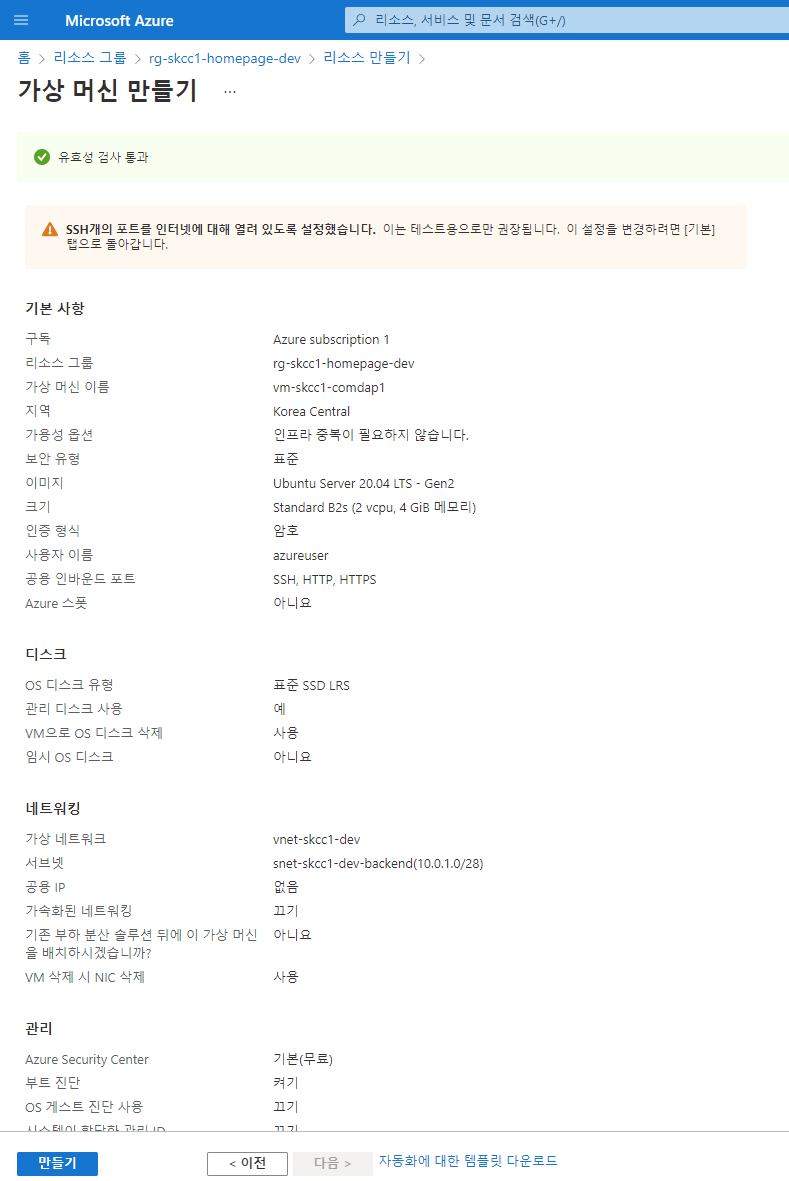
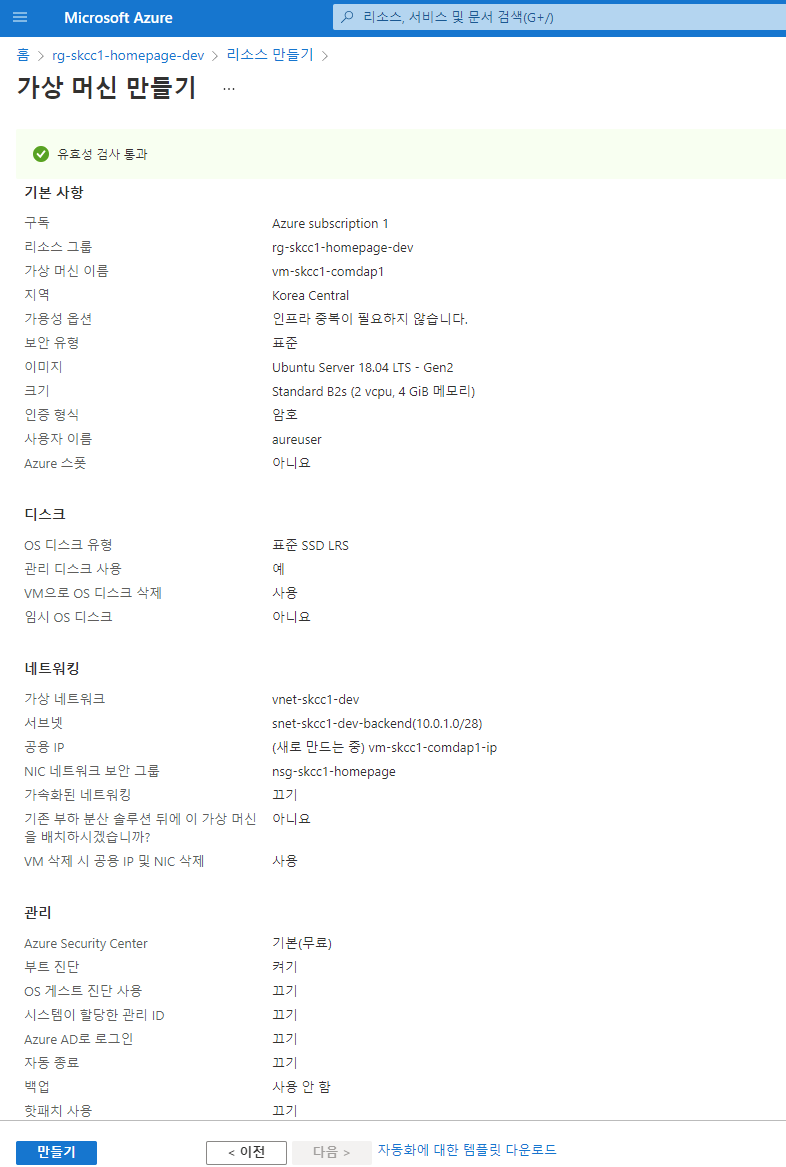
2022-02-07

diff --git a/1.IaaS/Tomcat.md b/1.IaaS/Tomcat.md
@@ -12,13 +12,13 @@
 sudo apt update
 
 # OpenJDK 설치
-sudo apt install default-jdk
+sudo apt install default-jdk -y
 
 # Tomcat 사용자 생성
 sudo useradd -r -m -U -d /opt/tomcat -s /bin/false tomcat
 
 # Tomcat 설치
-sudo apt install tomcat9
+sudo apt install tomcat9 -y
 
 # tomcat 시작
 sudo service tomcat9 start
@@ -26,6 +26,8 @@ sudo service tomcat9 start
 # tomcat 상태 보기
 sudo service tomcat9 status
 ```
+### 설치된 초기 화면
+![vm-skcc1-comdap1-tomcat9-초기화면.png](./img/vm-skcc1-comdap1-tomcat9-초기화면.png)  
 
 ## 방화벽
 ### 8080 허용 설정
@@ -41,52 +43,23 @@ sudo ufw disable
 ## 도구 설치
 ### netstat 등 도구 설치
 ```
-apt-get install net-tools
+sudo apt install net-tools
 ```
 
 ## tomcat webapps 디렉토리에 war 를 배포
+### WAR 파일 복사
 ```
 azureuser@vm-skcc1-comdap1:~$ cd /var/lib/tomcat9/webapps
 azureuser@vm-skcc1-comdap1:/var/lib/tomcat9/webapps$ sudo cp ~/SpringBootSample-0.0.1-SNAPSHOT.war .
 azureuser@vm-skcc1-comdap1:/var/lib/tomcat9/webapps$ sudo service tomcat9 restart
 
 ```
-### war 배포한 후 초기 화면
-![tomcat9-webapps.png](./img/tomcat9-webapps.png)
-
-## tomcat 기동
-![tomcat-9.png](./img/tomcat9.png)
-
-## WAR 배포 후 "localhost:8080" 접속 초기 화면
-![tomcat-9-browser.png](./img/tomcat9-browser.png)
-
-## AJP 설정
-
-### Connector port="8080" 주석(안해도 됨)
-```xml
-    <!-- Connector port="8080" protocol="HTTP/1.1"
-               connectionTimeout="20000"
-               redirectPort="8443" / -->
- 
+### WAR 사용 설정 (Spring Boot Application)
+#### server.xml 위치로 이동
+```bash
+cd /etc/tomcat9
+vi server.xml
 ```
-### AJP 설정의 주석 해제
-- address 를 삭제하거나 address를 localhost 로 설정
-- 아래 설정에서는 제거
-- address="localhost"
-- server.xml
-  ```xml
-      <Connector protocol="AJP/1.3"              
-               secretRequired="false"
-               port="8009"               
-               redirectPort="8443" />
-  ```
-### localhost 에 대해서 jvmRoute 옵션 추가
-- apache 의 workers.properties 와 동일명 기술
-- server.xml
-  ```xml
-  <Engine name="Catalina" defaultHost="localhost" jvmRoute="jvm1">
-  ```
-### WAR 배포 설정 (Spring Boot Application)
 - 확장자(.war)를 제외한 부분을 아래와 같이 기술
   ```xml
   <Host name="localhost"  appBase="webapps" unpackWARs="true" autoDeploy="true">
@@ -96,7 +69,7 @@ azureuser@vm-skcc1-comdap1:/var/lib/tomcat9/webapps$ sudo service tomcat9 restar
 ##### http://vm-skcc-comdap1:8080/home.do
 ![vm-skcc1-comdap1-home.do.png](./img/vm-skcc1-comdap1-home.do.png)
 
-### tomcat/conf/server.xml 전문
+### /etc/tomcat9/server.xml 전문
 - server.xml
   ```xml
   <?xml version="1.0" encoding="UTF-8"?>
@@ -125,7 +98,7 @@ azureuser@vm-skcc1-comdap1:/var/lib/tomcat9/webapps$ sudo service tomcat9 restar
     <!-- Security listener. Documentation at /docs/config/listeners.html
     <Listener className="org.apache.catalina.security.SecurityListener" />
     -->
-    <!-- APR library loader. Documentation at /docs/apr.html -->
+    <!--APR library loader. Documentation at /docs/apr.html -->
     <Listener className="org.apache.catalina.core.AprLifecycleListener" SSLEngine="on" />
     <!-- Prevent memory leaks due to use of particular java/javax APIs-->
     <Listener className="org.apache.catalina.core.JreMemoryLeakPreventionListener" />
@@ -177,10 +150,11 @@ azureuser@vm-skcc1-comdap1:/var/lib/tomcat9/webapps$ sudo service tomcat9 restar
                 connectionTimeout="20000"
                 redirectPort="8443" />
       -->
-      <!-- Define an SSL/TLS HTTP/1.1 Connector on port 8443
+      <!-- Define a SSL/TLS HTTP/1.1 Connector on port 8443
           This connector uses the NIO implementation. The default
           SSLImplementation will depend on the presence of the APR/native
-          library and the useOpenSSL attribute of the AprLifecycleListener.
+          library and the useOpenSSL attribute of the
+          AprLifecycleListener.
           Either JSSE or OpenSSL style configuration may be used regardless of
           the SSLImplementation selected. JSSE style configuration is used below.
       -->
@@ -193,7 +167,7 @@ azureuser@vm-skcc1-comdap1:/var/lib/tomcat9/webapps$ sudo service tomcat9 restar
           </SSLHostConfig>
       </Connector>
       -->
-      <!-- Define an SSL/TLS HTTP/1.1 Connector on port 8443 with HTTP/2
+      <!-- Define a SSL/TLS HTTP/1.1 Connector on port 8443 with HTTP/2
           This connector uses the APR/native implementation which always uses
           OpenSSL for TLS.
           Either JSSE or OpenSSL style configuration may be used. OpenSSL style
@@ -213,10 +187,10 @@ azureuser@vm-skcc1-comdap1:/var/lib/tomcat9/webapps$ sudo service tomcat9 restar
       -->
 
       <!-- Define an AJP 1.3 Connector on port 8009 -->
-      <Connector protocol="AJP/1.3"              
-                secretRequired="false"
-                port="8009"               
-                redirectPort="8443" />
+      <!--
+      <Connector port="8009" protocol="AJP/1.3" redirectPort="8443" />
+      -->
+
 
       <!-- An Engine represents the entry point (within Catalina) that processes
           every request.  The Engine implementation for Tomcat stand alone
@@ -227,10 +201,7 @@ azureuser@vm-skcc1-comdap1:/var/lib/tomcat9/webapps$ sudo service tomcat9 restar
       <!-- You should set jvmRoute to support load-balancing via AJP ie :
       <Engine name="Catalina" defaultHost="localhost" jvmRoute="jvm1">
       -->
-      <!--
-      <Engine name="Catalina" defaultHost="localhost">     
-      -->
-      <Engine name="Catalina" defaultHost="localhost" jvmRoute="jvm1">
+      <Engine name="Catalina" defaultHost="localhost">
 
         <!--For clustering, please take a look at documentation at:
             /docs/cluster-howto.html  (simple how to)
@@ -250,8 +221,10 @@ azureuser@vm-skcc1-comdap1:/var/lib/tomcat9/webapps$ sudo service tomcat9 restar
                 resourceName="UserDatabase"/>
         </Realm>
 
-        <Host name="localhost"  appBase="webapps" unpackWARs="true" autoDeploy="true">
+        <Host name="localhost"  appBase="webapps"
+              unpackWARs="true" autoDeploy="true">
           <Context path="" docBase="SpringBootSample-0.0.1-SNAPSHOT" reloadable="false" />
+
           <!-- SingleSignOn valve, share authentication between web applications
               Documentation at: /docs/config/valve.html -->
           <!--
@@ -269,4 +242,33 @@ azureuser@vm-skcc1-comdap1:/var/lib/tomcat9/webapps$ sudo service tomcat9 restar
       </Engine>
     </Service>
   </Server>
+  ```
+## WAR 배포 후 "localhost:8080" 접속 초기 화면
+![tomcat-9-browser.png](./img/tomcat9-browser.png)
+
+## AJP 설정
+
+### Connector port="8080" 주석(안해도 됨)
+```xml
+    <!-- Connector port="8080" protocol="HTTP/1.1"
+               connectionTimeout="20000"
+               redirectPort="8443" / -->
+ 
+```
+### AJP 설정의 주석 해제
+- address 를 삭제하거나 address를 localhost 로 설정
+- 아래 설정에서는 제거
+- address="localhost"
+- server.xml
+  ```xml
+      <Connector protocol="AJP/1.3"              
+               secretRequired="false"
+               port="8009"               
+               redirectPort="8443" />
+  ```
+### localhost 에 대해서 jvmRoute 옵션 추가
+- apache 의 workers.properties 와 동일명 기술
+- server.xml
+  ```xml
+  <Engine name="Catalina" defaultHost="localhost" jvmRoute="jvm1">
   ```

diff --git a/1.IaaS/AzureVirtualMachine.md b/1.IaaS/AzureVirtualMachine.md
@@ -96,13 +96,22 @@ set -o vi
 EDITOR=vi ; export EDITOR
 
 alias ls="ls -xF"
-alais rm="rm -i"
+alias rm="rm -i"
+```
+
+##### mysql client 설치하기(5.7 은 ubuntu 18.04 에 설치 가능, 20.04(x))
+```
+sudo apt-cache policy mysql-server
+sudo apt install mysql-client-core-5.7
+sudo apt install -s mysql-client=5.7.37-0ubuntu0.18.04.
 ```
 
 
 
 ##### vm-skcc1-comdap2
 ![vm-skcc1-comdap1-가상머신만들기.png](./img/vm-skcc1-comdap1-가상머신만들기.png)  
+
+---
 
 ## Script 로 VM 생성시 사전 작업
 ### [NSG 만들기](./bash/create-nsg.sh)
